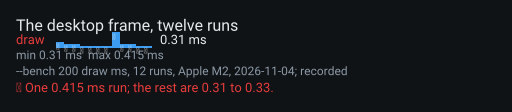
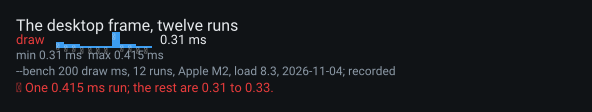
figure: state the sparkline run's load in its source
The spec's source now says the machine, the run count, the load average and the date, so the recorded series is honest where it is printed; the frame and its golden follow the wider source line.

Changed region(s): [[0.0, 0.1607, 0.4688, 0.5357], [0.0312, 0.5893, 0.6875, 0.6964], [0.0, 0.7232, 0.5312, 0.8304]]

diff --git a/native/README.md b/native/README.md
@@ -3414,7 +3414,7 @@ eighth**), the meter's fill (**4.51 of 21 cells, 0.00 off**) and its verdict aga
 heatmap cell's band and colour (**24 cells**, 8 inks × 3 pages: 5 under 3:1, 1 at 3–4.5, 1 at 4.5–7, 17 at 7:1+), every
 ratio the engine's, the three specs' refusals, their command goldens, the terminal's rows and three mutations (a
 sparkline drawn evenly: 7 eighths off; a flipped meter verdict: the engine disagrees; a heatmap shade from the cell's
-index: 17 of 24 cells wrong). The frames are `solid/frames/figure-{sparkline,meter,heatmap}.png` (512x112, 624x80,
+index: 17 of 24 cells wrong). The frames are `solid/frames/figure-{sparkline,meter,heatmap}.png` (592x112, 624x80,
 640x224), the goldens `solid/goldens/figure-*.json`, and the browser draws `?spec=` of each. What remains: the SVG/HTML
 export half draws neither `spark` nor `shade` yet (it draws the boxes, bars, texts, swatches and markers it knows), which
 is the export work's, not a kind's.
